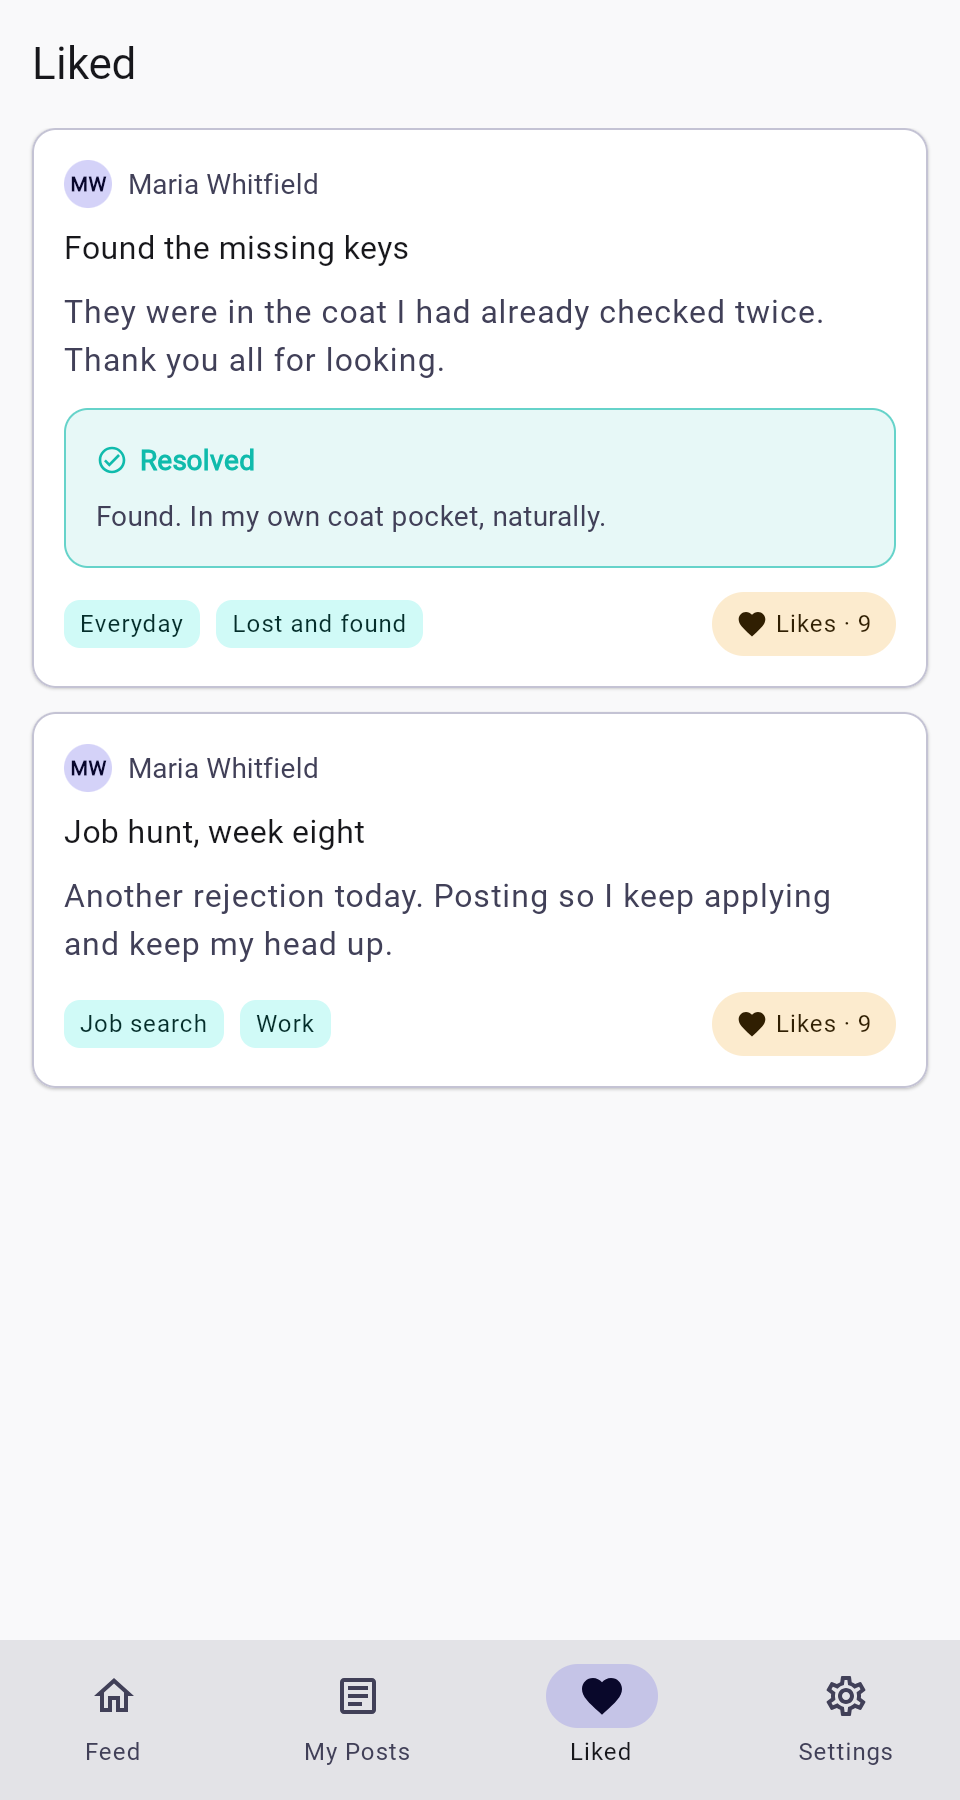
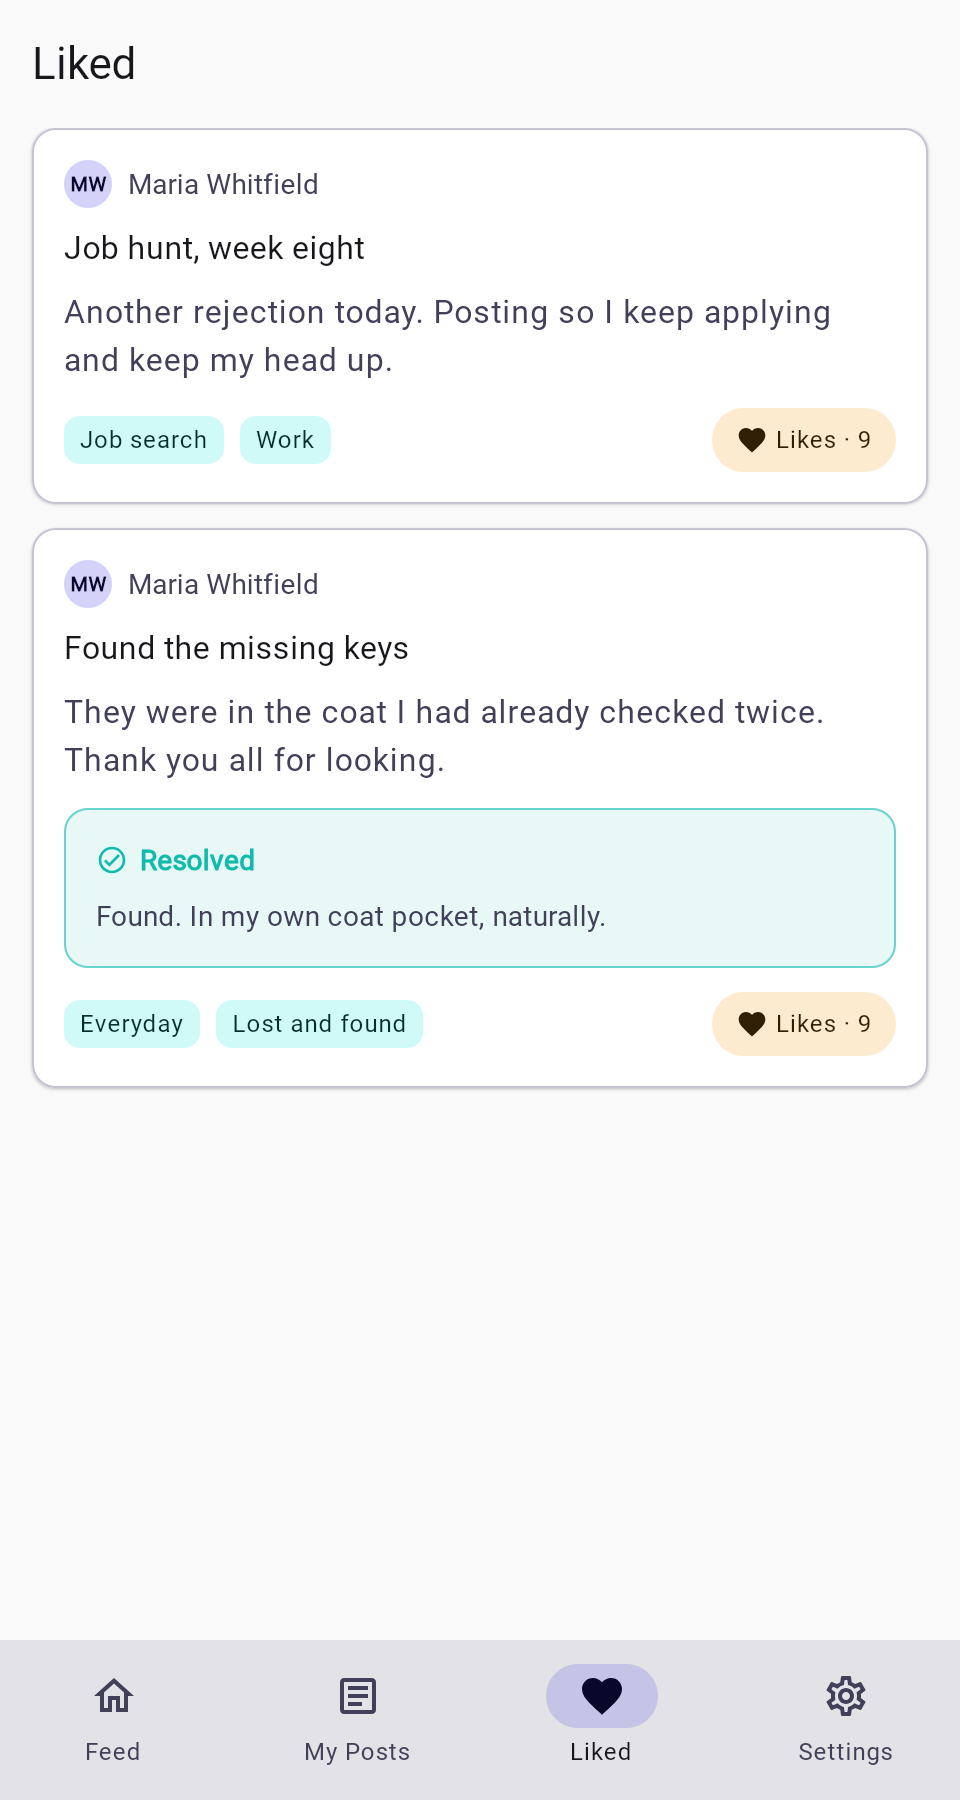
docs: iOS Liquid Glass screenshots; narrow and wide sets for desktop and web
The SwiftUI tab buttons carry the Compose test tags and the UI test falls
back to tab titles, so the same XCUITest drives the native bar; the bar is
tinted with the app's accent; the iOS script uninstalls the app before a
run so every pass starts light. Dark wide shots for desktop and web; the
README gallery gains a wide row and the platform docs embed their pairs.

Claude-Session: https://claude.ai/code/session_01LTWnDR6e6pFFUED3WPEjoT

diff --git a/iosApp/iosApp/ContentView.swift b/iosApp/iosApp/ContentView.swift
@@ -101,10 +101,16 @@ struct ContentView: View {
                 ForEach(IosTabsKt.tabRoutes(), id: \.self) { route in
                     TabComposeView(route: route)
                         .ignoresSafeArea(.container, edges: .top)
-                        .tabItem { Label(IosTabsKt.tabTitle(route: route), systemImage: IosTabsKt.tabSymbol(route: route)) }
+                        .tabItem {
+                            Label(IosTabsKt.tabTitle(route: route), systemImage: IosTabsKt.tabSymbol(route: route))
+                                .accessibilityIdentifier(IosTabsKt.tabTestTag(route: route))
+                        }
                         .tag(route)
                 }
             }
+            // The app's primary, from the generated AccentColor asset, rather than
+            // the system blue the bar would otherwise pick.
+            .tint(Color("AccentColor"))
             .onAppear { IosTabsKt.setNativeTabSwitcher { route in selection = route } }
         } else {
             ComposeView()

diff --git a/iosApp/iosAppUITests/PosterUITests.swift b/iosApp/iosAppUITests/PosterUITests.swift
@@ -22,8 +22,19 @@ class PosterTestCase: XCTestCase {
     }
 
     func element(_ identifier: String) -> XCUIElement {
-        app.descendants(matching: .any).matching(identifier: identifier).firstMatch
+        let match = app.descendants(matching: .any).matching(identifier: identifier).firstMatch
+        // With feature.liquidNavBar the tabs are SwiftUI's, and the system tab bar
+        // does not always surface the identifier set on the label; the title does.
+        if !match.exists, let title = Self.tabTitles[identifier] {
+            let button = app.tabBars.buttons[title]
+            if button.exists { return button }
+        }
+        return match
     }
+
+    private static let tabTitles = [
+        "feed_tab": "Feed", "my_posts_tab": "My Posts", "favourites_tab": "Liked", "settings_tab": "Settings",
+    ]
 
     func waitFor(
         _ identifier: String,

diff --git a/composeApp/src/iosMain/kotlin/com/example/poster/IosTabs.kt b/composeApp/src/iosMain/kotlin/com/example/poster/IosTabs.kt
@@ -48,6 +48,14 @@ fun tabTitle(route: String): String = runBlocking {
     }
 }
 
+/** The test tag the Compose bars give the same tab, so one UI test drives both bars. */
+fun tabTestTag(route: String): String = when (route) {
+    Screen.MyPosts.route -> "my_posts_tab"
+    Screen.Favorites.route -> "favourites_tab"
+    Screen.Settings.route -> "settings_tab"
+    else -> "feed_tab"
+}
+
 /** SF Symbol names, matching the Material glyphs the Compose bars use. */
 fun tabSymbol(route: String): String = when (route) {
     Screen.MyPosts.route -> "doc.text"

diff --git a/README.md b/README.md
@@ -28,21 +28,33 @@ already there and already tested.
 
 ## Screenshots
 
-The same feed on every platform, from the running app with demo data. Click a
-platform for its full set (light and dark, every screen).
+The same app from the running demo data. Narrow windows get a bottom tab bar;
+from 840 dp the tabs move to a left rail and the post opens beside the list.
+Click a platform for its full set (light and dark, every screen).
 
 <table>
   <tr>
     <th><a href="screenshots/android.md">Android</a></th>
     <th><a href="screenshots/ios.md">iOS</a></th>
-    <th><a href="screenshots/desktop.md">Desktop</a></th>
-    <th><a href="screenshots/web.md">Web</a></th>
+    <th><a href="screenshots/ios-liquid.md">iOS, Liquid Glass bar</a></th>
+    <th><a href="screenshots/web.md">Web, narrow</a></th>
   </tr>
   <tr>
     <td><a href="screenshots/android.md"><img src="screenshots/android/light-01-home.png" width="190" alt="Android feed"></a></td>
     <td><a href="screenshots/ios.md"><img src="screenshots/ios/light-01-home.png" width="190" alt="iOS feed"></a></td>
-    <td><a href="screenshots/desktop.md"><img src="screenshots/desktop/light-01-feed.png" width="190" alt="Desktop feed"></a></td>
-    <td><a href="screenshots/web.md"><img src="screenshots/web/light-01-feed.png" width="190" alt="Web feed"></a></td>
+    <td><a href="screenshots/ios-liquid.md"><img src="screenshots/ios-liquid/light-01-home.png" width="190" alt="iOS feed with the Liquid Glass tab bar"></a></td>
+    <td><a href="screenshots/web.md"><img src="screenshots/web/light-01-feed.png" width="190" alt="Web feed in a narrow window"></a></td>
+  </tr>
+</table>
+
+<table>
+  <tr>
+    <th><a href="screenshots/desktop.md">Desktop, wide</a></th>
+    <th><a href="screenshots/web.md">Web, wide</a></th>
+  </tr>
+  <tr>
+    <td><a href="screenshots/desktop.md"><img src="screenshots/desktop/light-06-wide-rail-expanded.png" width="400" alt="Desktop: rail with titles, feed and an empty detail pane"></a></td>
+    <td><a href="screenshots/web.md"><img src="screenshots/web/light-06-wide-details.png" width="400" alt="Web: rail, feed and an open post side by side"></a></td>
   </tr>
 </table>
 

diff --git a/screenshots/ios-liquid.md b/screenshots/ios-liquid.md
@@ -1,0 +1,59 @@
+# iOS, Liquid Glass tab bar screenshots
+
+Captured from the running app with demo data, in the default palette. How: the same run with `feature.liquidNavBar=true`: the tabs are a SwiftUI TabView, the system's Liquid Glass bar on iOS 26 (docs/LiquidDesign.md).
+
+[← README](../README.md) · other platforms:
+[Android](android.md) · [iOS](ios.md) · [Desktop (JVM)](desktop.md) · [Web (Kotlin/Wasm)](web.md) · 
+
+## home
+
+| Light | Dark |
+|---|---|
+| ![home, light](ios-liquid/light-01-home.png) | ![home, dark](ios-liquid/dark-01-home.png) |
+
+## my posts
+
+![my posts](ios-liquid/light-02-my-posts.png)
+
+## add post
+
+![add post](ios-liquid/light-03-add-post.png)
+
+## delete confirmation
+
+![delete confirmation](ios-liquid/light-05-delete-confirmation.png)
+
+## liked
+
+![liked](ios-liquid/light-06-liked.png)
+
+## settings
+
+| Light | Dark |
+|---|---|
+| ![settings, light](ios-liquid/light-07-settings.png) | ![settings, dark](ios-liquid/dark-07-settings.png) |
+
+## groups
+
+![groups](ios-liquid/light-08-groups.png)
+
+## post details
+
+![post details](ios-liquid/light-09-post-details.png)
+
+## support paywall
+
+![support paywall](ios-liquid/light-10-support-paywall.png)
+
+## profile
+
+![profile](ios-liquid/light-11-profile.png)
+
+## 00-login
+
+![00-login](ios-liquid/00-login.png)
+
+## 00b-register
+
+![00b-register](ios-liquid/00b-register.png)
+

diff --git a/CONVERSION_REPORT.md b/CONVERSION_REPORT.md
@@ -593,6 +593,21 @@ taps by Compose test tag, which the SwiftUI tab buttons do not carry; a
 native-bar screenshot set needs identifiers on those buttons (or a
 title fallback in the test helper) and a run with the flag on.
 
+### 27. Screenshots: iOS Liquid Glass, wide and narrow everywhere (2026-09-20)
+
+- `screenshots/ios-liquid/`: the iOS set with `feature.liquidNavBar=true`, the
+  system's Liquid Glass tab bar. To get there: the SwiftUI tab buttons carry
+  the Compose test tags (`IosTabs.tabTestTag`), the XCUITest helper falls back
+  to the tab title for `*_tab` identifiers, the bar is tinted with the app's
+  accent (`.tint(Color("AccentColor"))`; the project sets no global accent, so
+  it was system blue), and `ios-screenshots.sh` uninstalls the app first — the
+  test ends in the dark theme and the simulator kept it, so a second run's
+  "light" shots came out dark.
+- Desktop and web: dark wide shots added beside the light ones; the README
+  gallery has a narrow row (Android, iOS, iOS Liquid Glass, web) and a wide row
+  (desktop with the expanded rail, web with a post open); `docs/Desktop.md`,
+  `docs/Web.md` and `docs/LiquidDesign.md` embed the relevant pairs.
+
 ## Verified
 
 (Last full pass on 2026-09-18, after images and liquid design.)

diff --git a/docs/Desktop.md b/docs/Desktop.md
@@ -25,5 +25,11 @@ What the desktop app does differently:
 | Notifications, daily reminder, push | Not available; the switches report that. |
 | Packaging | `compose.desktop.application` is configured with the main class only. Add `nativeDistributions { }` (formats, icons, version) when you ship. |
 
-The window is phone-sized (480×900) on purpose: the layouts are single-column.
-Two-pane layouts for wide windows are a roadmap item.
+The window opens phone-sized (480×900); `POSTER_WINDOW=1200x800` opens it wide,
+where the tabs sit in a left rail and the post opens beside the list.
+
+| Narrow | Wide, rail expanded |
+|---|---|
+| ![desktop feed](../screenshots/desktop/light-01-feed.png) | ![desktop wide](../screenshots/desktop/light-06-wide-rail-expanded.png) |
+
+All shots: [`screenshots/desktop.md`](../screenshots/desktop.md).

diff --git a/screenshots/desktop.md b/screenshots/desktop.md
@@ -3,7 +3,7 @@
 Captured from the running app with demo data, in the default palette. How: `scripts/desktop-screenshots.sh`: the desktop app renders itself into PNGs headlessly (`POSTER_RENDER_TO`), signed in as the demo reader (docs/Desktop.md).
 
 [← README](../README.md) · other platforms:
-[Android](android.md) · [iOS](ios.md) · [Web (Kotlin/Wasm)](web.md) · 
+[Android](android.md) · [iOS](ios.md) · [iOS, Liquid Glass tab bar](ios-liquid.md) · [Web (Kotlin/Wasm)](web.md) · 
 
 ## feed
 
@@ -13,7 +13,9 @@ Captured from the running app with demo data, in the default palette. How: `scri
 
 ## wide feed
 
-![wide feed](desktop/light-05-wide-feed.png)
+| Light | Dark |
+|---|---|
+| ![wide feed, light](desktop/light-05-wide-feed.png) | ![wide feed, dark](desktop/dark-05-wide-feed.png) |
 
 ## wide rail expanded
 

diff --git a/screenshots/web.md b/screenshots/web.md
@@ -3,7 +3,7 @@
 Captured from the running app with demo data, in the default palette. How: `scripts/web-screenshots.sh`: headless Chrome over the DevTools protocol against the bundle the Ktor server hosts under `/app` (docs/Web.md).
 
 [← README](../README.md) · other platforms:
-[Android](android.md) · [iOS](ios.md) · [Desktop (JVM)](desktop.md) · 
+[Android](android.md) · [iOS](ios.md) · [iOS, Liquid Glass tab bar](ios-liquid.md) · [Desktop (JVM)](desktop.md) · 
 
 ## feed
 
@@ -25,7 +25,9 @@ Captured from the running app with demo data, in the default palette. How: `scri
 
 ## wide feed
 
-![wide feed](web/light-05-wide-feed.png)
+| Light | Dark |
+|---|---|
+| ![wide feed, light](web/light-05-wide-feed.png) | ![wide feed, dark](web/dark-05-wide-feed.png) |
 
 ## wide details
 

diff --git a/docs/Web.md b/docs/Web.md
@@ -41,6 +41,14 @@ origin does not hand it a session; CORS is only about which pages may call.
 | Notifications, daily reminder, push | Not available; the switches report that. |
 | Time zones | `kotlinx-datetime` on Wasm reads them from `@js-joda/timezone` (an npm dependency of `composeApp`). |
 
+## What it looks like
+
+| Narrow (bottom bar) | Wide (rail, two panes) |
+|---|---|
+| ![web feed](../screenshots/web/light-01-feed.png) | ![web wide](../screenshots/web/light-06-wide-details.png) |
+
+All shots: [`screenshots/web.md`](../screenshots/web.md).
+
 ## Adding the SQLite cache later
 
 SQLDelight's web-worker driver (sql.js over IndexedDB) works with `wasmJs`, but

diff --git a/docs/LiquidDesign.md b/docs/LiquidDesign.md
@@ -61,3 +61,11 @@ Box(Modifier.liquidGlass(backdrop, RoundedCornerShape(24.dp), MaterialTheme.colo
 
 `LocalGlassBackdrop` is null with the docked bar (nothing is recorded then);
 `liquidGlass` degrades to a plain tinted surface in that case.
+
+## What it looks like
+
+| iOS, the default docked bar | iOS with `feature.liquidNavBar=true` (the system's Liquid Glass bar on iOS 26) |
+|---|---|
+| ![iOS feed](../screenshots/ios/light-01-home.png) | ![iOS feed, Liquid Glass](../screenshots/ios-liquid/light-01-home.png) |
+
+All shots: [`screenshots/ios.md`](../screenshots/ios.md), [`screenshots/ios-liquid.md`](../screenshots/ios-liquid.md).

diff --git a/screenshots/android.md b/screenshots/android.md
@@ -3,7 +3,7 @@
 Captured from the running app with demo data, in the default palette. How: `scripts/ui-screenshots.sh --local --build --out screenshots/android` against `scripts/run-local-backend.sh` and `scripts/seed-demo-data.sh`; the store composites come from `scripts/store-screenshots.sh` (docs/Screenshots.md).
 
 [← README](../README.md) · other platforms:
-[iOS](ios.md) · [Desktop (JVM)](desktop.md) · [Web (Kotlin/Wasm)](web.md) · 
+[iOS](ios.md) · [iOS, Liquid Glass tab bar](ios-liquid.md) · [Desktop (JVM)](desktop.md) · [Web (Kotlin/Wasm)](web.md) · 
 
 ## home
 
